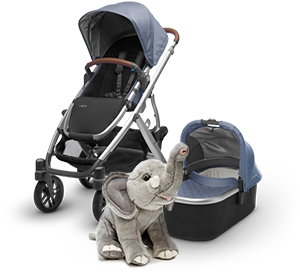
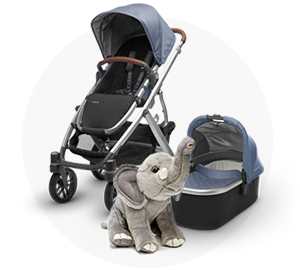
картинки

Changed region(s): [[0.06, 0.0, 0.9, 1.0]]

diff --git a/frontend/web/css/backend.css b/frontend/web/css/backend.css
@@ -41,3 +41,8 @@ mobile-sort__filter {
     background: linear-gradient(transparent 60%, rgba(96,96,96,.4));
     z-index: 1;
 }
+
+.nav-open__detail-img {
+    max-width: 350px;
+    width: 100%;
+}

diff --git a/frontend/widgets/views/header.php b/frontend/widgets/views/header.php
@@ -313,8 +313,8 @@ if(!empty($modelForgot)): ?>
                 </nav>
             </div>
             <div class="nav-open__detail-img">
-                <div class="nav-open__circle">
-                </div><img src="/theme/images/categories/<?=$item['slug']?>.png" alt=""/>
+<!--                <div class="nav-open__circle"></div>-->
+                <img src="/theme/images/categories/<?=$item['slug']?>.png" alt=""/>
             </div>
         </div>
         <?php endforeach;?>
